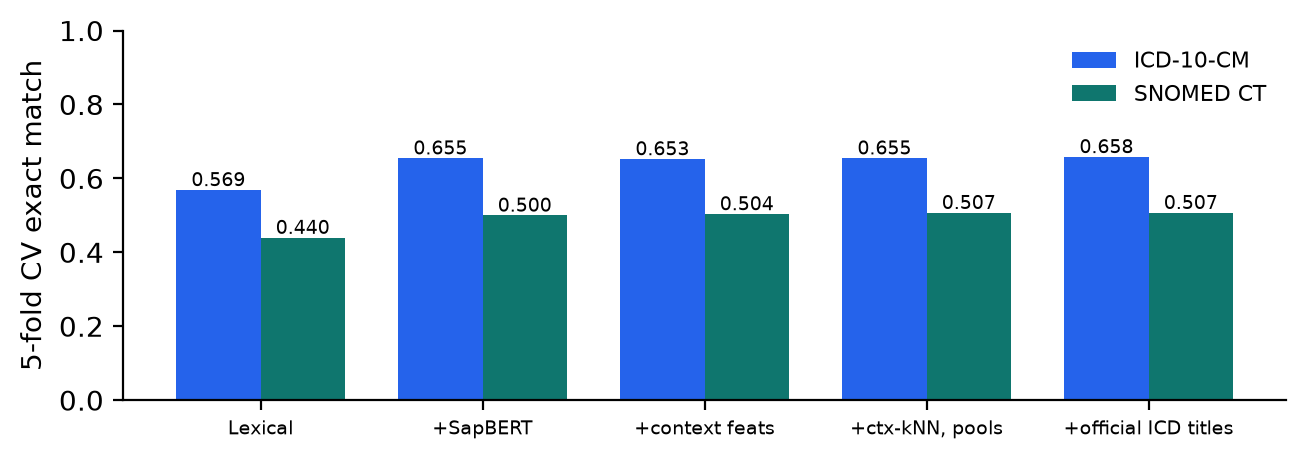
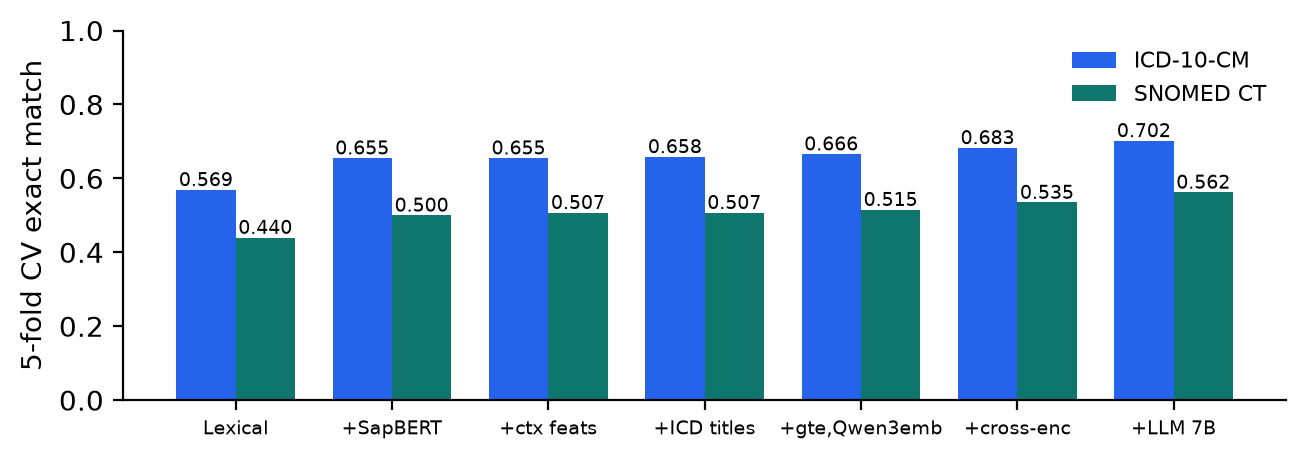
Results: GPU stage (3 encoders, cross-encoder, Qwen2.5-7B) -> ICD 0.702 / SNOMED 0.562 CV

Changed region(s): [[0.1226, 0.244, 0.9502, 0.8845], [0.4904, 0.915, 0.9502, 0.9455], [0.1533, 0.915, 0.4598, 0.9455]]

diff --git a/docs/WRITEUP.md b/docs/WRITEUP.md
@@ -94,16 +94,16 @@ fold. Exact-match accuracy is reported per system; the headline is the lower of 
 
 ## 4. Results
 
-All numbers are 5-fold CV exact match on the 9,646 labelled rows. GPU-stage rows (extra encoders, cross-encoder, LLM) are added when that run completes.
+All numbers are 5-fold CV exact match on the 9,646 labelled rows. Rows up to `_sap4` run entirely on CPU.
 
-**Headline (configuration `_sap4`):** ICD-10-CM **0.658**, SNOMED CT **0.507** → min **0.507**.
+**Headline (configuration `_d3llm`):** ICD-10-CM **0.702**, SNOMED CT **0.562** → min **0.562**.
 
 | metric | ICD-10-CM | SNOMED CT |
 |---|---|---|
-| exact match (5-fold CV) | **0.658** | **0.507** |
-| long tail: gold code seen ≤ 2× elsewhere in train | 0.527 | 0.438 |
-| accuracy on the 70% most confident | 0.778 | 0.617 |
-| same 3-character category (ICD partial credit) | 0.762 | – |
+| exact match (5-fold CV) | **0.702** | **0.562** |
+| long tail: gold code seen ≤ 2× elsewhere in train | 0.573 | 0.500 |
+| accuracy on the 70% most confident | 0.828 | 0.676 |
+| same 3-character category (ICD partial credit) | 0.801 | – |
 | label self-consistency on near-duplicates (ceiling) | 0.937 | 0.758 |
 
 **Ablation** (each row adds one component; the configuration in bold is the submitted one):
@@ -114,7 +114,10 @@ All numbers are 5-fold CV exact match on the 9,646 labelled rows. GPU-stage rows
 | + SapBERT dense retrieval | 0.655 | 0.500 | 0.500 | 0.598 | 0.922 / 0.878 |
 | + context / negation / numeric features | 0.653 | 0.504 | 0.504 | 0.600 | 0.922 / 0.878 |
 | + contextual kNN, wider candidate pools | 0.655 | 0.507 | 0.507 | 0.604 | 0.929 / 0.889 |
-| **+ official ICD titles (CPU-only final)** | **0.658** | **0.507** | **0.507** | 0.604 | 0.929 / 0.889 |
+| + official ICD titles (CPU-only set) | 0.658 | 0.507 | 0.507 | 0.604 | 0.929 / 0.889 |
+| + gte-base + Qwen3-Embedding signals | 0.666 | 0.515 | 0.515 | 0.614 | 0.942 / 0.915 |
+| + fine-tuned cross-encoder | 0.683 | 0.535 | 0.535 | 0.631 | 0.942 / 0.915 |
+| **+ Qwen2.5-7B listwise LLM scores** | **0.702** | **0.562** | **0.562** | 0.655 | 0.942 / 0.915 |
 
 ![ablation](figures/ablation.png)
 
@@ -125,7 +128,7 @@ Measured on the shared node (AMD EPYC 9554, 16 threads, no GPU) for the CPU mode
 mapping both systems per term: **50 ms/term in batch (≈72k terms/hour)**, single-term latency
 331 ms median / 372 ms p95, 64 s cold start, 16 GB RAM (dense indexes held as float32). The
 cross-encoder adds ~1.5 ms/term on a GPU. The LLM stage costs one ~700-token forward pass per
-term per system (measured in the GPU run). It is the only component
+term per system (measured: 82 ms/term per system with Qwen2.5-7B, batched on one RTX 6000 Ada). It is the only component
 that needs a GPU at inference, and it can be limited to low-confidence terms.
 
 ## 5. Error analysis
@@ -148,14 +151,14 @@ convention consolidation as much as modelling** (see §8).
 
 | failure mode | ICD-10-CM | SNOMED CT |
 |---|---|---|
-| correct | 0.658 | 0.507 |
-| retrieval_miss | 0.099 | 0.167 |
-| semantic-type mismatch (e.g. finding vs procedure) | – | 0.164 |
-| wrong concept, same semantic type | – | 0.151 |
-| specificity (same 3-char category) | 0.086 | – |
-| wrong concept, other chapter | 0.084 | – |
-| wrong concept, same chapter | 0.057 | – |
-| laterality | 0.016 | 0.010 |
+| correct | 0.702 | 0.562 |
+| retrieval_miss | 0.087 | 0.149 |
+| semantic-type mismatch (e.g. finding vs procedure) | – | 0.144 |
+| wrong concept, same semantic type | – | 0.136 |
+| specificity (same 3-char category) | 0.081 | – |
+| wrong concept, other chapter | 0.068 | – |
+| wrong concept, same chapter | 0.052 | – |
+| laterality | 0.011 | 0.009 |
 
 * *Retrieval misses* are mostly paraphrases with no lexical overlap and a convention target:
   "could not df her ankle well" → R29.898, "hemodynamic instability" → R09.89. They are also
@@ -163,7 +166,7 @@ convention consolidation as much as modelling** (see §8).
 * *Specificity* errors (ICD, same 3-character category) are dominated by residual-code
   conventions: "nasal dyspnea" → R06.89 (other) vs R06.00 (unspecified); "lymphadenopathy" →
   R59.1 (generalised) vs R59.9; "alcohol dependence" → F10.20 vs F10.29. The predicted code is in the right
-  3-character category 76% of the time (right chapter 85%); the leaf choice is where
+  3-character category 80% of the time (right chapter 88%); the leaf choice is where
   convention bites.
 * *Semantic-type mismatch* (SNOMED) is the largest SNOMED-specific failure. The same name
   exists as a procedure, an observable and a finding ("inr", "full mask cpap", "acute rash"
@@ -175,16 +178,16 @@ convention consolidation as much as modelling** (see §8).
 
 | gold code seen elsewhere in training | ICD-10-CM acc (n) | SNOMED CT acc (n) |
 |---|---|---|
-| unseen (0) | 0.378 (466) | 0.360 (2964) |
-| rare (1-2) | 0.661 (517) | 0.539 (2308) |
-| mid (3-9) | 0.730 (899) | 0.675 (1764) |
-| frequent (10+) | 0.811 (424) | 0.724 (304) |
+| unseen (0) | 0.440 (466) | 0.429 (2964) |
+| rare (1-2) | 0.693 (517) | 0.591 (2308) |
+| mid (3-9) | 0.790 (899) | 0.714 (1764) |
+| frequent (10+) | 0.814 (424) | 0.753 (304) |
 
 Unseen-code accuracy is about half the frequent-code accuracy in both systems. The engine still
 maps a third of never-seen codes exactly, purely from dictionary retrieval plus learned
 convention features. This is the number that best predicts production behaviour.
 
-**By entity type (SNOMED).** Device 0.439 (n=437), DiagnosisCode 0.604 (n=2700), EncounterType 0.510 (n=567), LabService 0.462 (n=858), ProcedureCode 0.437 (n=2777). Diagnoses are the easiest SNOMED slice; procedures, devices and labs carry more granularity conventions. ICD-10-CM: 0.659 on diagnoses.
+**By entity type (SNOMED).** Device 0.519 (n=437), DiagnosisCode 0.655 (n=2700), EncounterType 0.584 (n=567), LabService 0.541 (n=858), ProcedureCode 0.481 (n=2777). Diagnoses are the easiest SNOMED slice; procedures, devices and labs carry more granularity conventions. ICD-10-CM: 0.702 on diagnoses.
 
 **Abbreviation collisions.** Bare ambiguous abbreviations are only 182 training rows (1.9%).
 ICD gets 75% of them right, SNOMED 46%. The context-conditioned reading score identifies the
@@ -198,12 +201,12 @@ routed to review. The LLM stage, which reads the context, is designed to resolve
 
 | coverage (most confident first) | ICD-10-CM | SNOMED CT |
 |---|---|---|
-| 100% | 0.658 | 0.507 |
-| 97% | 0.670 | 0.516 |
-| 90% | 0.700 | 0.541 |
-| 80% | 0.737 | 0.576 |
-| 70% | 0.778 | 0.617 |
-| 50% | 0.853 | 0.716 |
+| 100% | 0.702 | 0.562 |
+| 97% | 0.715 | 0.573 |
+| 90% | 0.749 | 0.596 |
+| 80% | 0.791 | 0.633 |
+| 70% | 0.828 | 0.676 |
+| 50% | 0.889 | 0.777 |
 
 
 ## 6. Design decisions and why

diff --git a/README.md b/README.md
@@ -12,10 +12,10 @@ each system. Everything runs locally: no chart text leaves the machine.
 
 | metric | ICD-10-CM | SNOMED CT |
 |---|---|---|
-| exact match (5-fold CV) | **0.658** | **0.507** |
-| long tail: gold code seen ≤ 2× elsewhere in train | 0.527 | 0.438 |
-| accuracy on the 70% most confident | 0.778 | 0.617 |
-| same 3-character category (ICD partial credit) | 0.762 | – |
+| exact match (5-fold CV) | **0.702** | **0.562** |
+| long tail: gold code seen ≤ 2× elsewhere in train | 0.573 | 0.500 |
+| accuracy on the 70% most confident | 0.828 | 0.676 |
+| same 3-character category (ICD partial credit) | 0.801 | – |
 | label self-consistency on near-duplicates (ceiling) | 0.937 | 0.758 |
 
 | configuration | ICD-10-CM | SNOMED CT | headline (min) | SNOMED, diagnoses only | candidate recall ICD / SNOMED |
@@ -24,7 +24,10 @@ each system. Everything runs locally: no chart text leaves the machine.
 | + SapBERT dense retrieval | 0.655 | 0.500 | 0.500 | 0.598 | 0.922 / 0.878 |
 | + context / negation / numeric features | 0.653 | 0.504 | 0.504 | 0.600 | 0.922 / 0.878 |
 | + contextual kNN, wider candidate pools | 0.655 | 0.507 | 0.507 | 0.604 | 0.929 / 0.889 |
-| **+ official ICD titles (CPU-only final)** | **0.658** | **0.507** | **0.507** | 0.604 | 0.929 / 0.889 |
+| + official ICD titles (CPU-only set) | 0.658 | 0.507 | 0.507 | 0.604 | 0.929 / 0.889 |
+| + gte-base + Qwen3-Embedding signals | 0.666 | 0.515 | 0.515 | 0.614 | 0.942 / 0.915 |
+| + fine-tuned cross-encoder | 0.683 | 0.535 | 0.535 | 0.631 | 0.942 / 0.915 |
+| **+ Qwen2.5-7B listwise LLM scores** | **0.702** | **0.562** | **0.562** | 0.655 | 0.942 / 0.915 |
 
 The headline number is the lower of the two systems, as in the brief. The
 long-tail column covers rows whose gold code appears at most twice elsewhere
